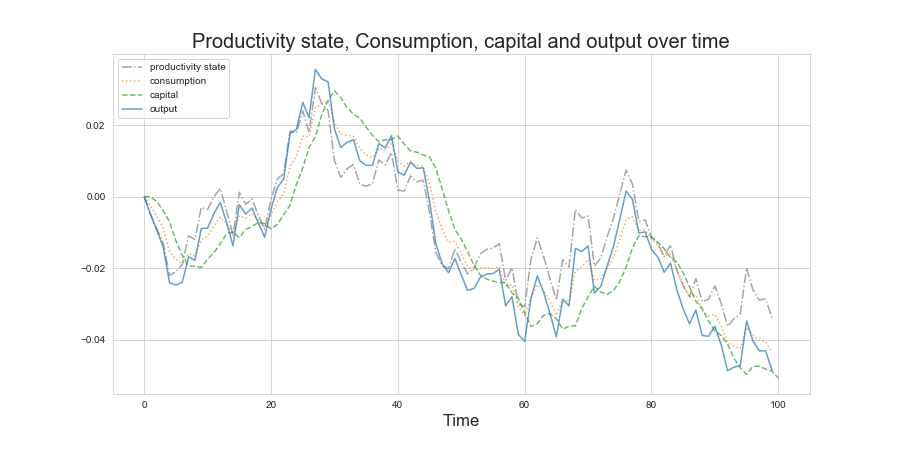
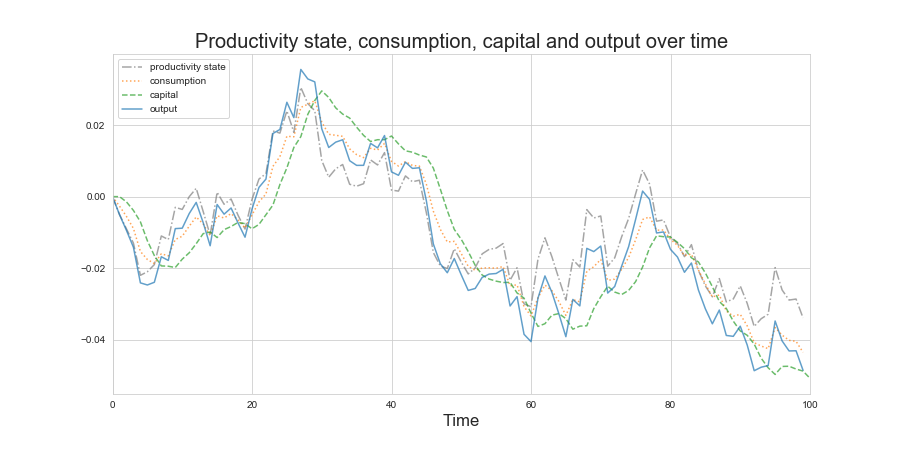
:art: Add xlim of the plot.

diff --git a/application.py b/application.py
@@ -35,6 +35,7 @@ ax.plot(time_2, k_t, label="capital", color="C2", alpha=0.7, linestyle='dashed')
 ax.plot(time_1, y_t, label="output", color="C0", alpha=0.7)
 ax.legend(loc="upper left", fontsize=T / 10)
 
+plt.xlim((0, T))
 plt.xlabel("Time", fontsize=T / 6)
-plt.title("Productivity state, Consumption, capital and output over time", fontsize=T / 5)
+plt.title("Productivity state, consumption, capital and output over time", fontsize=T / 5)
 fig.savefig("figures/time_series_plot")
